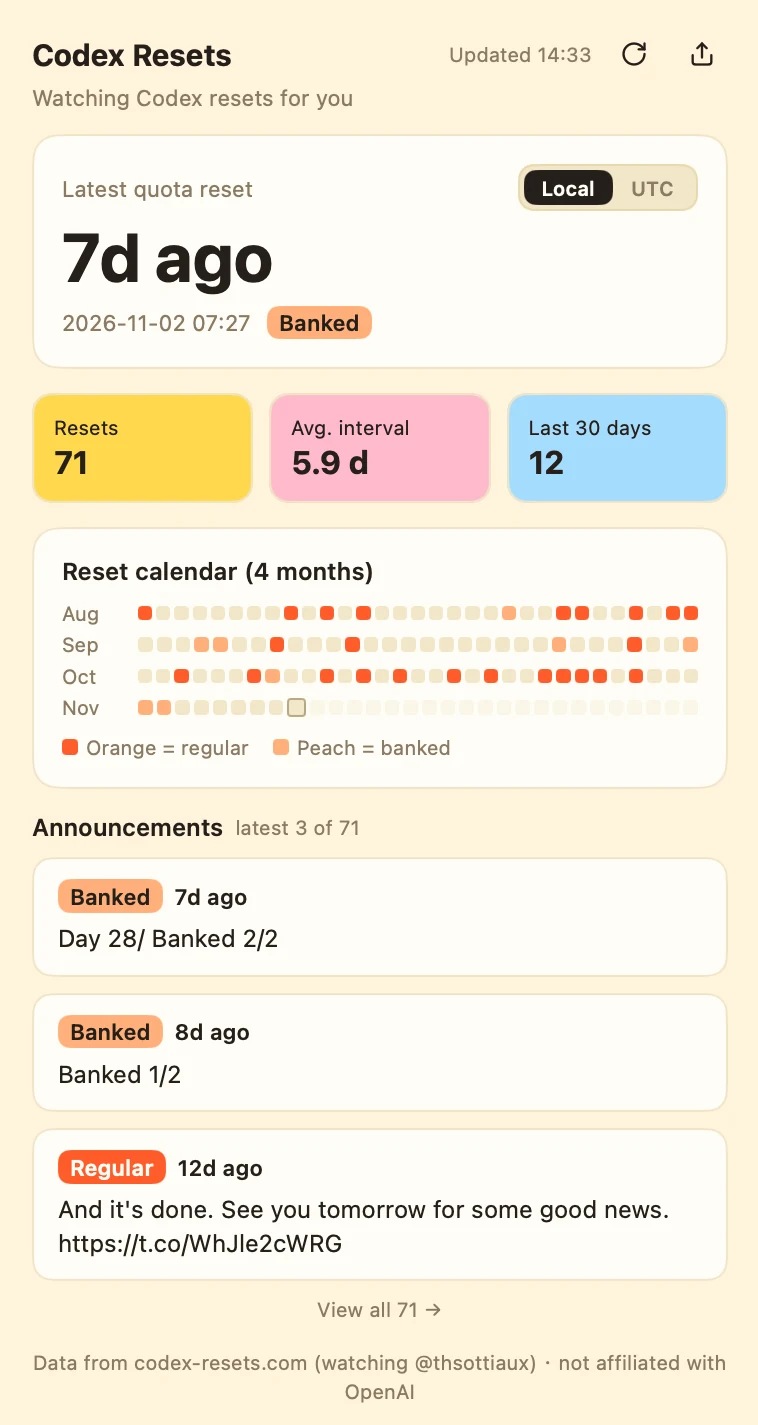
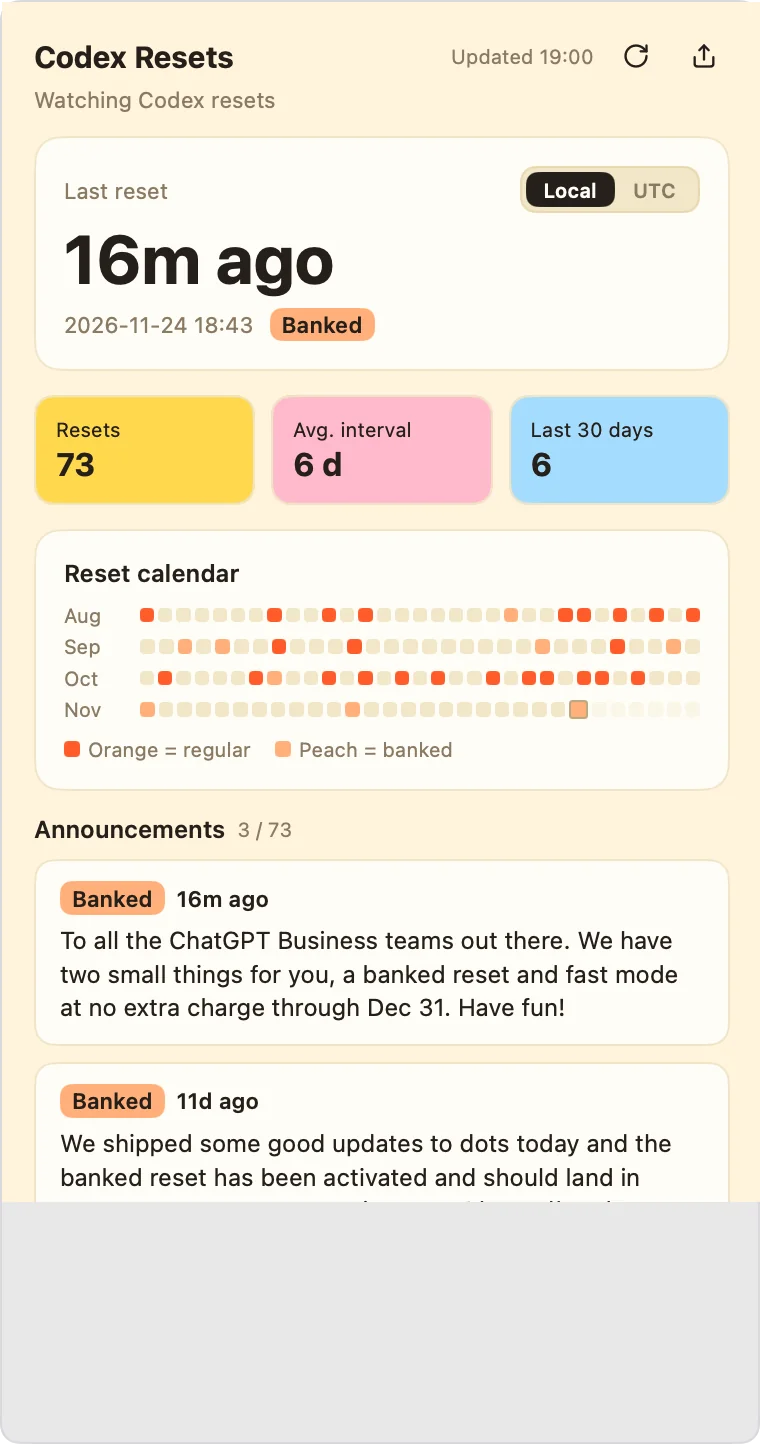
v0.4.0 对齐 Metrix.Bar 最新协议能力
- 根元素 <locale> 本地化 description 与 <docs>（中文默认 + 英文翻译），
  新增 license="Apache-2.0" SPDX 声明
- 通知升级：new Notification + tag 防堆叠，点击直达公告原文
  （apis 新增 notification）
- caches 离线兜底：断网/冷启动时显示缓存的上次数据（apis 新增 caches）
- tray.error：无数据出错时托盘 tooltip 直接给出原因
- README 补功能说明；英文截图经本地 API /v0/check 自动生成（v0.1.4 旧图退役）

diff --git a/src/state.js b/src/state.js
@@ -59,7 +59,9 @@ async function load(env) {
       const on = !(env && env.inputs && env.inputs.notifyEnabled === false);
       if (on) {
         const summary = latest.text.length > 120 ? latest.text.slice(0, 117) + "…" : latest.text;
-        $metrix.notify(t("通知标题"), summary || t("通知兜底"));
+        // 原生通知：tag 相同的新通知替换旧的（不堆叠）；点击直达公告原文（需 apis="notification"）
+        const n = new Notification(t("通知标题"), { body: summary || t("通知兜底"), tag: "reset" });
+        if (latest.url) n.onclick = () => $metrix.openURL(latest.url);
         $metrix.toast(t("通知标题"));
       }
     }
@@ -67,11 +69,35 @@ async function load(env) {
   }
 }
 
+// 离线兜底：load 失败且内存无数据（冷启动/断网）时读 caches 里上次成功响应
+// （需要 <script apis="caches">）。命中则走与成功路径相同的归一填充 state，
+// lastLoadedAt 取缓存响应的 x-saved-at，state.error 保持非空（更新行显示「上次失败」）。
+async function loadFromCache(e) {
+  state.error = String((e && e.message) || e);
+  if (state.status || state.resets.length) return;   // 已有数据：沿用保留旧数据行为
+  const c = globalThis.caches && caches.default;
+  if (!c) return;                                    // caches 不可用（旧宿主）：按未命中处理
+  try {
+    const [st, rs] = await Promise.all([
+      c.match(API + "/status"),
+      c.match(API + "/resets?limit=100"),
+    ]);
+    const savedAt = st && st.headers ? Number(st.headers.get("x-saved-at")) || 0 : 0;
+    const next = st ? readStatus(await st.json()) : null;
+    const rawList = rs ? await rs.json() : null;
+    const list = Array.isArray(rawList && rawList.data) ? rawList.data.map(readReset).filter(Boolean) : [];
+    if (!next && !list.length) return;               // 缓存未命中：维持 problem 相位
+    state.status = next;
+    state.resets = list;
+    state.lastLoadedAt = savedAt || state.lastLoadedAt;
+  } catch { /* 缓存读取失败按未命中处理 */ }
+}
+
 export function refresh(env) {
   if (inflight) return inflight;
   $metrix.invalidate();
   inflight = load(env)
-    .catch(e => { state.error = String(e && e.message || e); })   // 失败保留旧数据
+    .catch(loadFromCache)   // 失败：有数据保留旧数据；无数据走缓存兜底
     .finally(() => { inflight = null; $metrix.invalidate(); });
   return inflight;
 }

diff --git a/src/api.js b/src/api.js
@@ -32,12 +32,20 @@ export function readStatus(body) {
   };
 }
 
-// 两段式报错：HTTP 状态 / 响应无效（JSON 解析失败与形状异常统一报后者）
+// 两段式报错：HTTP 状态 / 响应无效（JSON 解析失败与形状异常统一报后者）。
+// 成功后写入 caches 离线兜底（需要 <script apis="caches">）：合成 Response 带
+// x-saved-at 头记录写入时间，供 state.js 兜底时读；缓存不可用时静默失败不影响主流程。
 export async function getJSON(url) {
   const res = await fetch(url, { headers: { Accept: "application/json" } });
   if (!res.ok) throw new Error(t("网络错误", res.status));
   let body = null;
   try { body = await res.json(); } catch { /* 解析失败视同无效响应 */ }
   if (!body || typeof body !== "object") throw new Error(t("格式错误"));
+  try {
+    const saved = new Response(JSON.stringify(body), {
+      headers: { "content-type": "application/json", "x-saved-at": String(Date.now()) },
+    });
+    await caches.default.put(url, saved);
+  } catch { /* 缓存不可用不影响主流程 */ }
   return body;
 }

diff --git a/src/i18n.js b/src/i18n.js
@@ -51,7 +51,7 @@ const I18N = {
     "网络错误": status => "请求失败：HTTP " + status,
     "格式错误": "响应无效。",
     "通知标题": "Codex 额度已重置",
-    "通知兜底": "查看公告原文",
+    "通知兜底": "点击查看公告",
     "截图不支持": "请升级 Metrix.Bar",
     "截图成功": "已复制截图",
     "截图失败": msg => "截图失败：" + msg,
@@ -97,7 +97,7 @@ const I18N = {
     "网络错误": status => "Request failed: HTTP " + status,
     "格式错误": "Invalid response.",
     "通知标题": "Codex quota reset",
-    "通知兜底": "Open the announcement",
+    "通知兜底": "Click to open the announcement",
     "截图不支持": "Update Metrix.Bar to screenshot",
     "截图成功": "Screenshot copied",
     "截图失败": msg => "Screenshot failed: " + msg,

diff --git a/src/ui.js b/src/ui.js
@@ -301,7 +301,7 @@ function trayTree() {
   const tip = latest && latest.text
     ? "Codex Resets · " + t("托盘最近重置") + relTime(latest.at) + " · " + latest.text.slice(0, 60)
     : "Codex Resets";
-  return {
+  const tray = {
     icon: CODEX_ICON,
     iconTemplate: true,
     title,
@@ -310,6 +310,9 @@ function trayTree() {
       { label: t("菜单打开官网"), onClick: openSite },
     ],
   };
+  // 无数据且有错误（problem 相位）：带出 error，tooltip 级联优先显示它，替代只有 "!" 的信息缺失
+  if (!state.status && !state.resets.length && state.error) tray.error = state.error;
+  return tray;
 }
 
 function panelTree() {

diff --git a/README.md b/README.md
@@ -8,12 +8,12 @@ A menu bar dashboard for [Metrix.Bar](https://metrix.bar) that watches OpenAI Co
 
 Open the link, then open the downloaded file — Metrix.Bar imports `.bar` files directly.
 
-- [`codex-resets.bar`](https://cdn.jsdelivr.net/gh/0tt0/codex-resets-bar@v0.3.1/codex-resets.bar)
+- [`codex-resets.bar`](https://cdn.jsdelivr.net/gh/0tt0/codex-resets-bar@v0.4.0/codex-resets.bar)
 
 Or paste this into your browser's address bar to import straight from the CDN:
 
 ```text
-metrixbar://install?url=https%3A%2F%2Fcdn.jsdelivr.net%2Fgh%2F0tt0%2Fcodex-resets-bar%40v0.3.1%2Fcodex-resets.bar&sha256=2db8fe181885ca221f130def2945e1de2178982036214dd8e0ab5e13bcae6c84
+metrixbar://install?url=https%3A%2F%2Fcdn.jsdelivr.net%2Fgh%2F0tt0%2Fcodex-resets-bar%40v0.4.0%2Fcodex-resets.bar&sha256=1fe53ef280b4405b5154c97a91d7af92638fe7792091ef75a5da575395259023
 ```
 
 GitHub strips custom schemes from rendered Markdown, so that link is copyable text rather than a clickable anchor.
@@ -26,7 +26,8 @@ The dashboard language follows your Metrix.Bar display language — Chinese for 
 - **Regular vs. banked** resets, labelled differently.
 - **A four-month calendar** — the rhythm, not just the latest entry.
 - **Pace**: resets in 30 days, average interval, days since the last.
-- **A notification when a new announcement drops**, and never a stale one on install.
+- **A notification when a new announcement drops**, and never a stale one on install. Click it to jump straight to the announcement.
+- **Cached data after a restart or offline**: the last good data is shown, marked as last failed.
 - **One-click screenshot sharing.**
 
 ![The Codex Resets panel: latest reset, stats, a four-month calendar and recent announcements](screenshot-en.webp)

diff --git a/README.zh-CN.md b/README.zh-CN.md
@@ -8,12 +8,12 @@ Codex 额度什么时候重置，你不用再盯着官网刷新。
 
 点开下面的链接，再打开下载好的文件即可 —— Metrix.Bar 直接导入 `.bar`。
 
-- [`codex-resets.bar`](https://cdn.jsdelivr.net/gh/0tt0/codex-resets-bar@v0.3.1/codex-resets.bar)
+- [`codex-resets.bar`](https://cdn.jsdelivr.net/gh/0tt0/codex-resets-bar@v0.4.0/codex-resets.bar)
 
 也可以把下面这行粘到浏览器地址栏，直接从 CDN 导入：
 
 ```text
-metrixbar://install?url=https%3A%2F%2Fcdn.jsdelivr.net%2Fgh%2F0tt0%2Fcodex-resets-bar%40v0.3.1%2Fcodex-resets.bar&sha256=2db8fe181885ca221f130def2945e1de2178982036214dd8e0ab5e13bcae6c84
+metrixbar://install?url=https%3A%2F%2Fcdn.jsdelivr.net%2Fgh%2F0tt0%2Fcodex-resets-bar%40v0.4.0%2Fcodex-resets.bar&sha256=1fe53ef280b4405b5154c97a91d7af92638fe7792091ef75a5da575395259023
 ```
 
 GitHub 渲染 Markdown 时会剥离自定义协议，所以这里以可复制文本给出。
@@ -26,7 +26,8 @@ GitHub 渲染 Markdown 时会剥离自定义协议，所以这里以可复制文
 - **分清常规重置与备用额度**，标签不同。
 - **近四个月日历**，看到节奏而不只是最新一次。
 - **顺手掌握进度**：近 30 天次数、平均间隔、距上次天数。
-- **新公告才发通知**，刚装完不会蹦出过期的。
+- **新公告才发通知**，刚装完不会蹦出过期的；点击通知直达公告原文。
+- **断网或重启后显示缓存的上次数据**，并标注上次失败。
 - **点一下把面板截图复制到剪贴板**。
 
 ![Codex Resets 面板：最近一次重置、统计、四个月日历与公告流](screenshot.webp)
